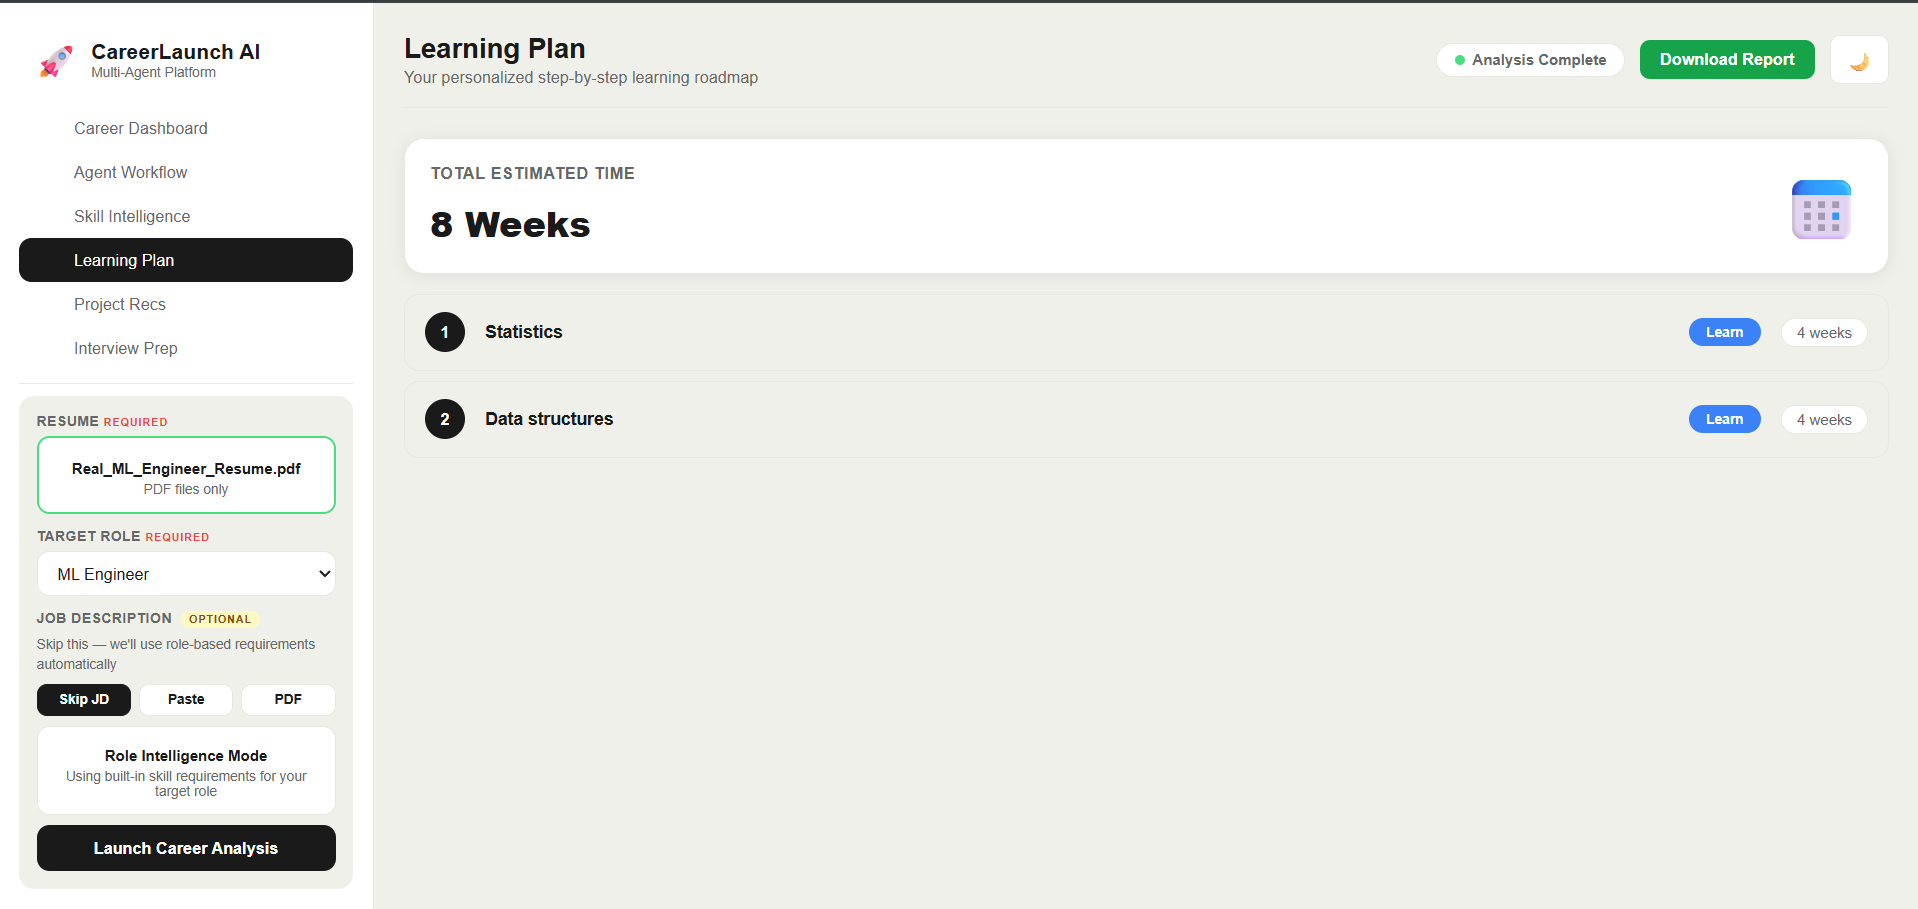
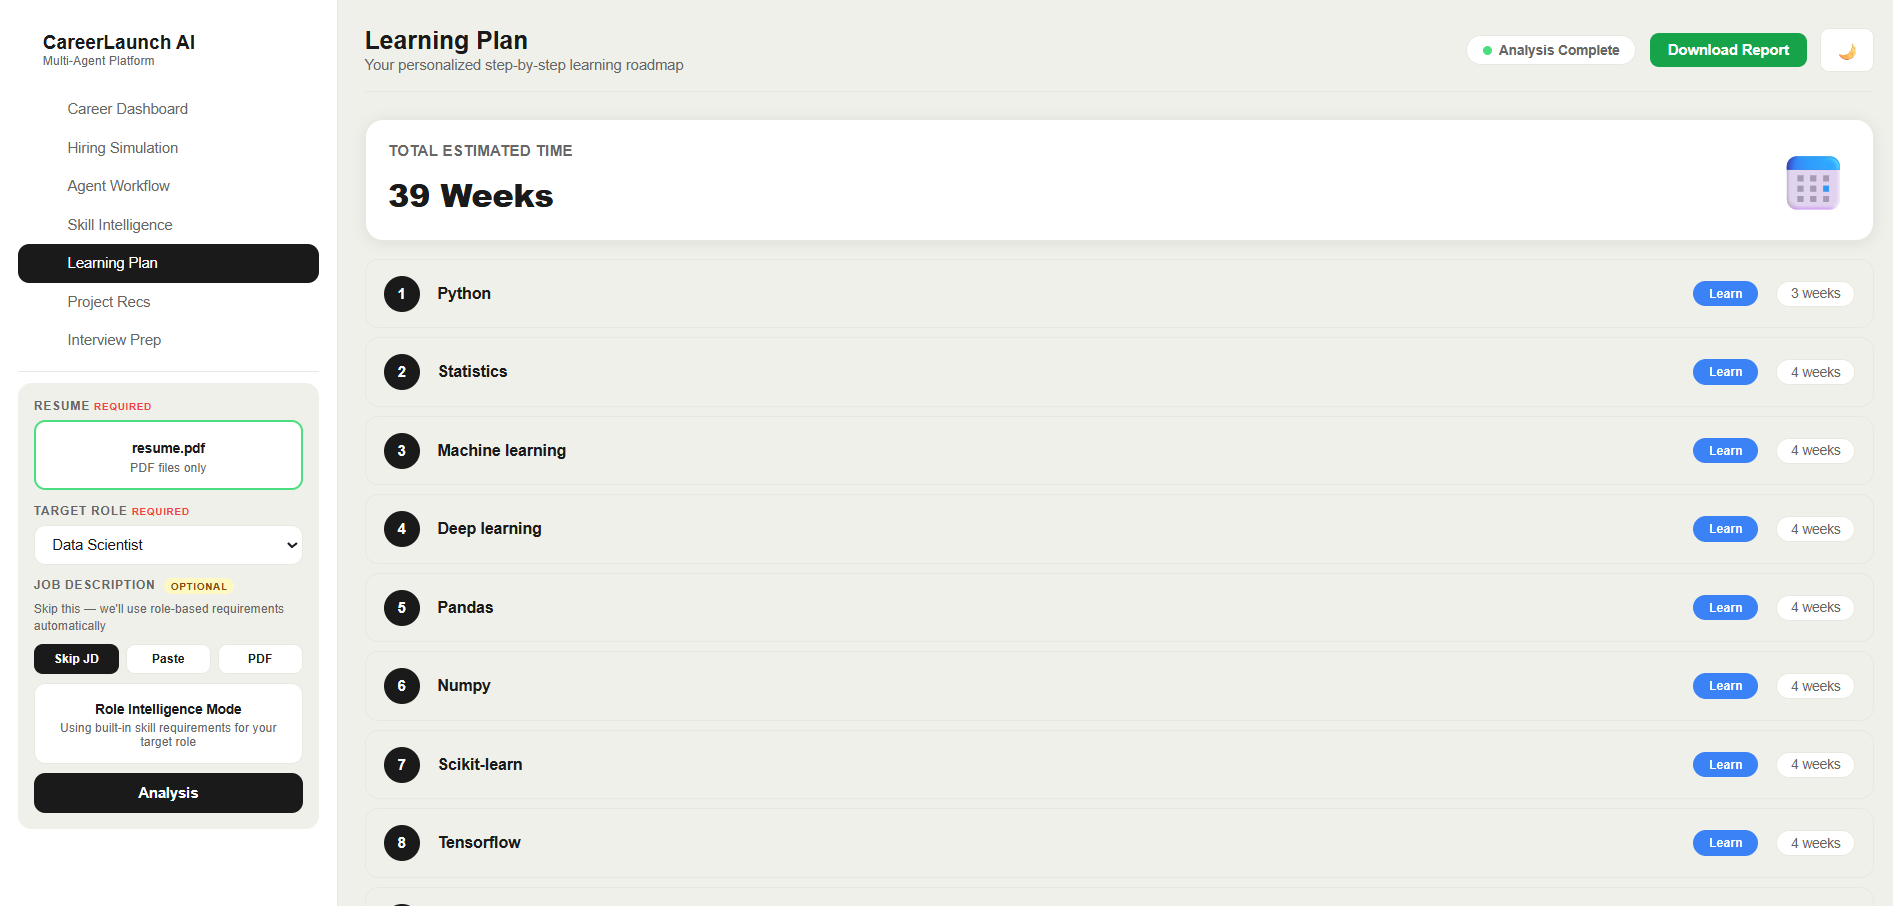
Update screenshots with hiring simulation

diff --git a/README.md b/README.md
@@ -96,6 +96,9 @@ User Input (Resume + Target Role)
 ### Learning Plan
 ![Learning Plan](screenshots/learning.png)
 
+### Hiring Simulation
+![Hiring Simulation](screenshots/hiring.png)
+
 ---
 
 ##  Project Structure
